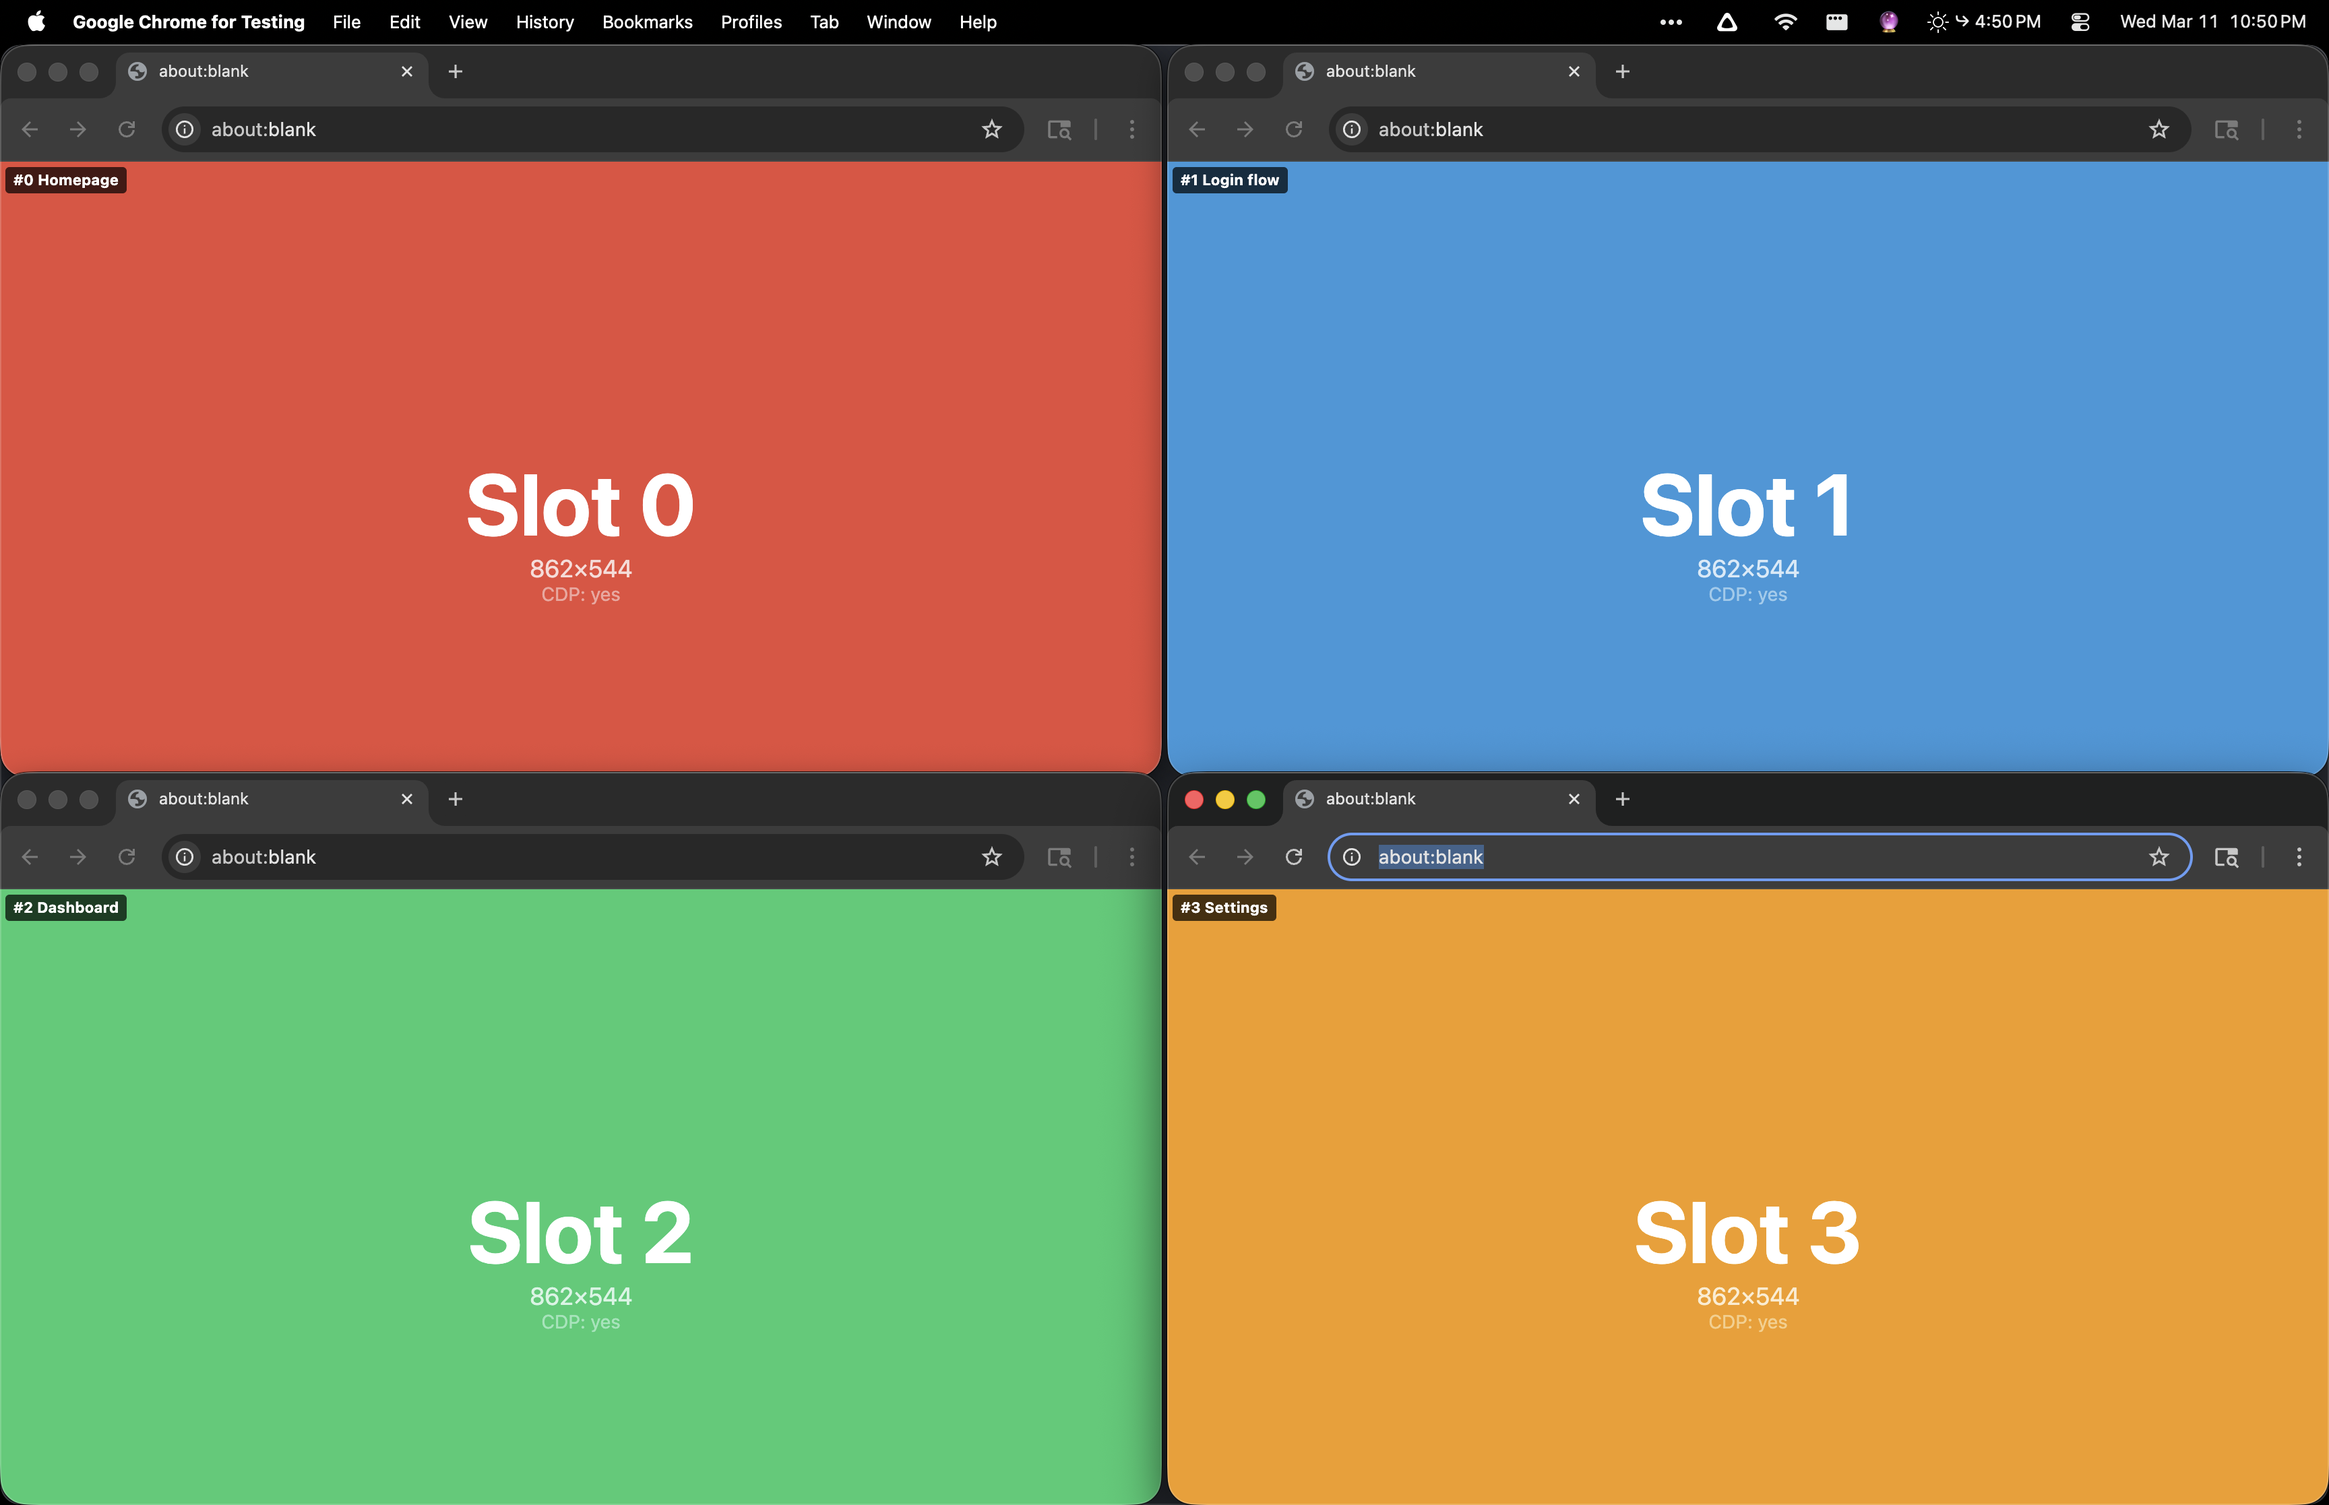
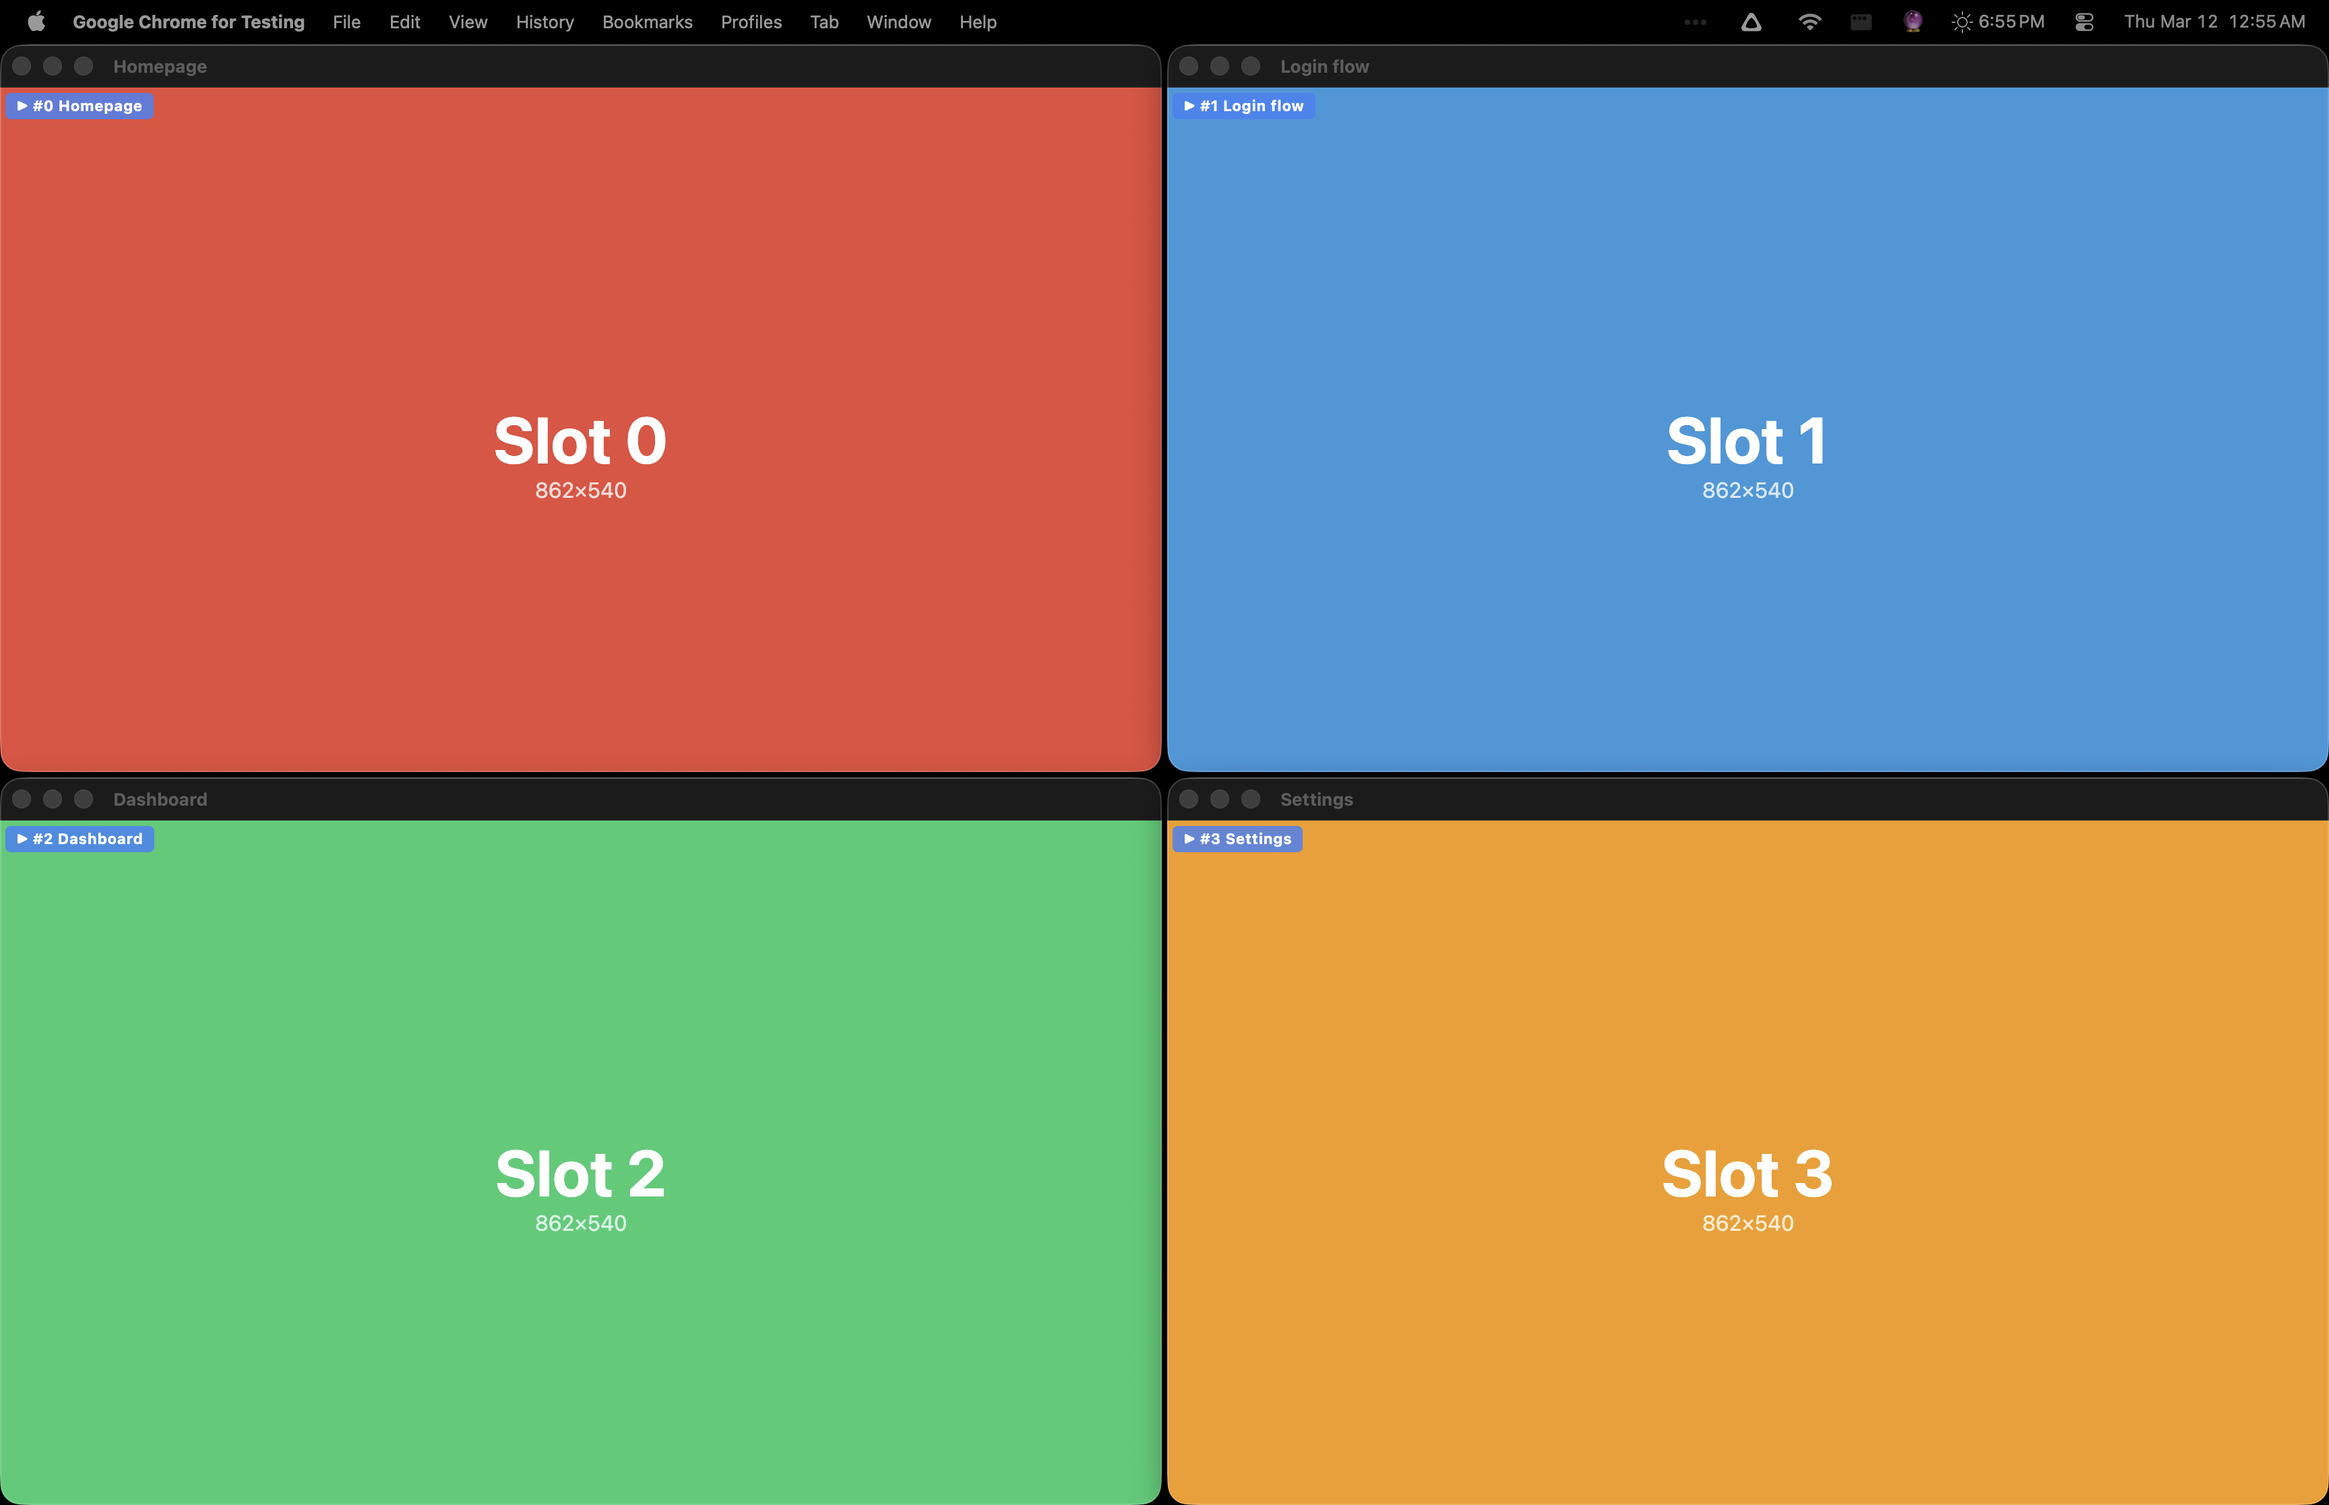
Fix menu bar offset, enable true app-mode windows, add display selection
- detectScreen() now uses NSScreen for accurate menu bar height (33px vs 25px)
- launchGrid() uses launchPersistentContext for real app-mode windows
- Demos accept --display flag for multi-monitor targeting
- Fresh demo screenshot with chromeless app-mode windows

diff --git a/demo.ts b/demo.ts
@@ -1,8 +1,11 @@
 import { chromium } from "playwright";
+import { mkdtempSync, rmSync } from "fs";
+import { join } from "path";
+import { tmpdir } from "os";
 import { getSlot, createGrid, type GridConfig } from "./src/grid";
 import { setWindowBounds } from "./src/cdp";
 import { injectOverlay } from "./src/overlay";
-import { detectScreen } from "./src/screen";
+import { detectScreen, resolveDisplay, type DisplaySelector } from "./src/screen";
 import { APP_MODE_FLAGS } from "./src/chrome-flags";
 
 /**
@@ -12,27 +15,75 @@ import { APP_MODE_FLAGS } from "./src/chrome-flags";
  *   npx tsx demo.ts              # 2x2 grid (4 browsers)
  *   npx tsx demo.ts 8            # 4x2 grid (8 browsers)
  *   npx tsx demo.ts 4 right 700  # 2x2 grid, reserve 700px on the right
+ *   npx tsx demo.ts 4 --display internal  # target built-in display
  */
 
 async function sleep(ms: number) {
   return new Promise((r) => setTimeout(r, ms));
 }
 
-async function main() {
-  const count = parseInt(process.argv[2] || "4", 10);
-  const reserveSide = process.argv[3] as "left" | "right" | undefined;
-  const reserveSize = parseInt(process.argv[4] || "0", 10);
+function parseArgs() {
+  const args = process.argv.slice(2);
+  let count = 4;
+  let reserveSide: "left" | "right" | undefined;
+  let reserveSize = 0;
+  let display: DisplaySelector | undefined;
 
-  const screen = detectScreen();
-  console.log(`Screen: ${screen.width}×${screen.height} (top offset: ${screen.topOffset})`);
+  for (let i = 0; i < args.length; i++) {
+    if (args[i] === "--display" && args[i + 1]) {
+      display = args[++i];
+    } else if (!reserveSide && /^\d+$/.test(args[i])) {
+      count = parseInt(args[i], 10);
+    } else if (!reserveSide && ["left", "right"].includes(args[i])) {
+      reserveSide = args[i] as "left" | "right";
+      if (args[i + 1] && /^\d+$/.test(args[i + 1])) {
+        reserveSize = parseInt(args[++i], 10);
+      }
+    }
+  }
+
+  return { count, reserveSide, reserveSize, display };
+}
+
+async function main() {
+  const { count, reserveSide, reserveSize, display } = parseArgs();
+
+  // Resolve screen from display selector or auto-detect
+  let screenX = 0, screenY = 0, screenW: number, screenH: number, topOffset: number;
+
+  if (display !== undefined) {
+    const resolved = resolveDisplay(display);
+    if (resolved) {
+      screenX = resolved.x;
+      screenY = resolved.y;
+      screenW = resolved.width;
+      screenH = resolved.height;
+      topOffset = resolved.visible.y - resolved.y;
+      console.log(`Display: ${resolved.name} (${screenW}×${screenH} at ${screenX},${screenY}, menu bar: ${topOffset}px)`);
+    } else {
+      console.error(`Display "${display}" not found, using main`);
+      const screen = detectScreen();
+      screenW = screen.width;
+      screenH = screen.height;
+      topOffset = screen.topOffset;
+    }
+  } else {
+    const screen = detectScreen();
+    screenW = screen.width;
+    screenH = screen.height;
+    topOffset = screen.topOffset;
+    console.log(`Screen: ${screenW}×${screenH} (top offset: ${topOffset})`);
+  }
 
   const config: GridConfig = createGrid({
     preset: "auto",
     workerCount: count,
     gap: 4,
-    screenWidth: screen.width,
-    screenHeight: screen.height,
-    topOffset: screen.topOffset,
+    screenWidth: screenW,
+    screenHeight: screenH,
+    screenX,
+    screenY,
+    topOffset,
     ...(reserveSide && reserveSize > 0 && {
       reserve: { side: reserveSide, size: reserveSize },
     }),
@@ -47,35 +98,39 @@ async function main() {
     "Signup", "Checkout", "Admin panel", "API health",
   ];
 
-  const browsers: Array<{ browser: any; page: any; slot: any }> = [];
+  const browsers: Array<{ context: any; page: any; slot: any }> = [];
+  const tempDirs: string[] = [];
 
   // Launch sequentially with a small delay so windows don't race/swallow each other
   for (let i = 0; i < count; i++) {
     const slot = getSlot(i, config);
-    const browser = await chromium.launch({
+
+    // Use launchPersistentContext so --app flag actually applies to our page
+    const tempDir = mkdtempSync(join(tmpdir(), "browser-grid-demo-"));
+    tempDirs.push(tempDir);
+
+    const context = await chromium.launchPersistentContext(tempDir, {
       headless: false,
+      viewport: slot.viewport,
       args: [
         ...slot.launchArgs,
         ...APP_MODE_FLAGS,
       ],
     });
-
-    const context = await browser.newContext({
-      viewport: slot.viewport,
-    });
-    const page = await context.newPage();
+    const page = context.pages()[0] || await context.newPage();
 
     // Precise positioning via CDP
     const cdpOk = await setWindowBounds(page, slot.bounds);
 
-    // Load a colored page
+    // Load a colored page with a proper title (shown in app-mode title bar)
     await page.setContent(`
+      <html><head><title>${testNames[i % testNames.length]}</title></head>
       <body style="margin:0; background:${colors[i % colors.length]}; display:flex; align-items:center; justify-content:center; height:100vh; font-family:system-ui;">
         <div style="text-align:center; color:white;">
           <div style="font-size:48px; font-weight:bold;">Slot ${i}</div>
           <div style="font-size:16px; opacity:0.8;">${slot.viewport.width}×${slot.viewport.height}</div>
         </div>
-      </body>
+      </body></html>
     `);
 
     // Inject overlay label
@@ -84,7 +139,7 @@ async function main() {
       testName: testNames[i % testNames.length],
     });
 
-    browsers.push({ browser, page, slot });
+    browsers.push({ context, page, slot });
     console.log(`  Slot ${i}: ${testNames[i % testNames.length]} (${slot.viewport.width}×${slot.viewport.height})`);
 
     // Small delay between launches

diff --git a/demo-real.ts b/demo-real.ts
@@ -1,15 +1,20 @@
 import { chromium } from "playwright";
+import { mkdtempSync, rmSync } from "fs";
+import { join } from "path";
+import { tmpdir } from "os";
 import { getSlot, createGrid, type GridConfig } from "./src/grid";
 import { setWindowBounds } from "./src/cdp";
 import { injectOverlay, updateOverlay } from "./src/overlay";
-import { detectScreen } from "./src/screen";
+import { detectScreen, resolveDisplay, type DisplaySelector } from "./src/screen";
 import { APP_MODE_FLAGS } from "./src/chrome-flags";
 
 /**
  * Demo: simulates parallel test runs visiting real pages.
  * Shows browsers loading different sites simultaneously.
  *
- * Usage: npx tsx demo-real.ts
+ * Usage:
+ *   npx tsx demo-real.ts                  # 6 browsers on main display
+ *   npx tsx demo-real.ts --display internal  # target built-in display
  */
 
 async function sleep(ms: number) {
@@ -32,28 +37,59 @@ const tests: TestCase[] = [
 
 async function main() {
   const count = Math.min(tests.length, 6);
-  const screen = detectScreen();
+  const displayArg = process.argv.indexOf("--display");
+  const display: DisplaySelector | undefined = displayArg >= 0 ? process.argv[displayArg + 1] : undefined;
+
+  let screenX = 0, screenY = 0, screenW: number, screenH: number, topOffset: number;
+
+  if (display !== undefined) {
+    const resolved = resolveDisplay(display);
+    if (resolved) {
+      screenX = resolved.x;
+      screenY = resolved.y;
+      screenW = resolved.width;
+      screenH = resolved.height;
+      topOffset = resolved.visible.y - resolved.y;
+      console.log(`Display: ${resolved.name} (${screenW}×${screenH})`);
+    } else {
+      const screen = detectScreen();
+      screenW = screen.width;
+      screenH = screen.height;
+      topOffset = screen.topOffset;
+    }
+  } else {
+    const screen = detectScreen();
+    screenW = screen.width;
+    screenH = screen.height;
+    topOffset = screen.topOffset;
+  }
 
   const config: GridConfig = createGrid({
     preset: "six",
     gap: 4,
-    screenWidth: screen.width,
-    screenHeight: screen.height,
-    topOffset: screen.topOffset,
+    screenWidth: screenW,
+    screenHeight: screenH,
+    screenX,
+    screenY,
+    topOffset,
   });
 
   console.log(`Launching ${count} browsers in ${config.cols}×${config.rows} grid...`);
 
-  const browsers: Array<{ browser: any; page: any; slot: any }> = [];
+  const browsers: Array<{ context: any; page: any; slot: any }> = [];
+  const tempDirs: string[] = [];
 
   for (let i = 0; i < count; i++) {
     const slot = getSlot(i, config);
-    const browser = await chromium.launch({
+    const tempDir = mkdtempSync(join(tmpdir(), "browser-grid-demo-"));
+    tempDirs.push(tempDir);
+
+    const context = await chromium.launchPersistentContext(tempDir, {
       headless: false,
+      viewport: slot.viewport,
       args: [...slot.launchArgs, ...APP_MODE_FLAGS],
     });
-    const context = await browser.newContext({ viewport: slot.viewport });
-    const page = await context.newPage();
+    const page = context.pages()[0] || await context.newPage();
     await setWindowBounds(page, slot.bounds);
 
     await injectOverlay(page, {
@@ -73,7 +109,7 @@ async function main() {
       console.log(`  ✗ Slot ${i}: ${tests[i].name} failed`);
     });
 
-    browsers.push({ browser, page, slot });
+    browsers.push({ context, page, slot });
     if (i < count - 1) await sleep(200);
   }
 

diff --git a/src/launch.ts b/src/launch.ts
@@ -1,4 +1,7 @@
 import { chromium, type Browser, type BrowserContext, type Page } from "@playwright/test";
+import { mkdtempSync, rmSync } from "fs";
+import { join } from "path";
+import { tmpdir } from "os";
 import { getSlot, createGrid, type GridConfig } from "./grid";
 import { setWindowBounds } from "./cdp";
 import { injectOverlay, updateOverlay, type OverlayOptions, type OverlayStatus } from "./overlay";
@@ -127,18 +130,37 @@ export async function launchGrid(options: LaunchGridOptions): Promise<GridInstan
 
   const chromeFlags = appMode ? APP_MODE_FLAGS : MINIMAL_CHROME_FLAGS;
   const slots: GridSlot[] = [];
+  const tempDirs: string[] = [];
 
   for (let i = 0; i < count; i++) {
     const slotInfo = getSlot(i, config);
     const label = labels?.[i] ?? `Slot ${i}`;
 
-    const browser = await chromium.launch({
-      headless: false,
-      args: [...slotInfo.launchArgs, ...chromeFlags, ...extraArgs],
-    });
+    let browser: Browser;
+    let context: BrowserContext;
+    let page: Page;
 
-    const context = await browser.newContext({ viewport: slotInfo.viewport });
-    const page = await context.newPage();
+    if (appMode) {
+      // Use launchPersistentContext so the --app flag applies to the page we control
+      // (chromium.launch + newContext creates a separate non-app window)
+      const tempDir = mkdtempSync(join(tmpdir(), "browser-grid-"));
+      tempDirs.push(tempDir);
+
+      context = await chromium.launchPersistentContext(tempDir, {
+        headless: false,
+        viewport: slotInfo.viewport,
+        args: [...slotInfo.launchArgs, ...chromeFlags, ...extraArgs],
+      });
+      browser = context.browser()!;
+      page = context.pages()[0] || await context.newPage();
+    } else {
+      browser = await chromium.launch({
+        headless: false,
+        args: [...slotInfo.launchArgs, ...chromeFlags, ...extraArgs],
+      });
+      context = await browser.newContext({ viewport: slotInfo.viewport });
+      page = await context.newPage();
+    }
 
     await setWindowBounds(page, slotInfo.bounds);
 
@@ -186,7 +208,16 @@ export async function launchGrid(options: LaunchGridOptions): Promise<GridInstan
     get: (index: number) => slots[index],
     closeAll: async () => {
       for (const s of slots) {
-        await s.browser.close().catch(() => {});
+        try {
+          if (s.browser) await s.browser.close().catch(() => {});
+          else await s.context.close().catch(() => {});
+        } catch {
+          // Already closed
+        }
+      }
+      // Clean up temp directories
+      for (const dir of tempDirs) {
+        try { rmSync(dir, { recursive: true, force: true }); } catch { /* ignore */ }
       }
     },
   };

diff --git a/src/screen.ts b/src/screen.ts
@@ -40,11 +40,26 @@ export interface DisplayBounds {
 export type DisplaySelector = "main" | "internal" | "laptop" | "secondary" | "external" | number | string;
 
 /**
- * Detect macOS screen resolution using system_profiler.
- * Returns logical resolution (points, not retina pixels) for the main display.
- * Falls back to sensible defaults if detection fails.
+ * Detect macOS screen resolution for the main display.
+ * Uses NSScreen (via listScreens) for accurate menu bar offset,
+ * falling back to system_profiler and then sensible defaults.
  */
 export function detectScreen(): ScreenInfo {
+  try {
+    // Prefer NSScreen data — it gives us the real visible area (correct menu bar height)
+    const screens = listScreens();
+    const main = screens.find(s => s.isMain) ?? screens[0];
+    if (main) {
+      return {
+        width: main.width,
+        height: main.height,
+        topOffset: main.visible.y - main.y,
+      };
+    }
+  } catch {
+    // Fall through to system_profiler
+  }
+
   try {
     return detectMacOSScreen();
   } catch {
